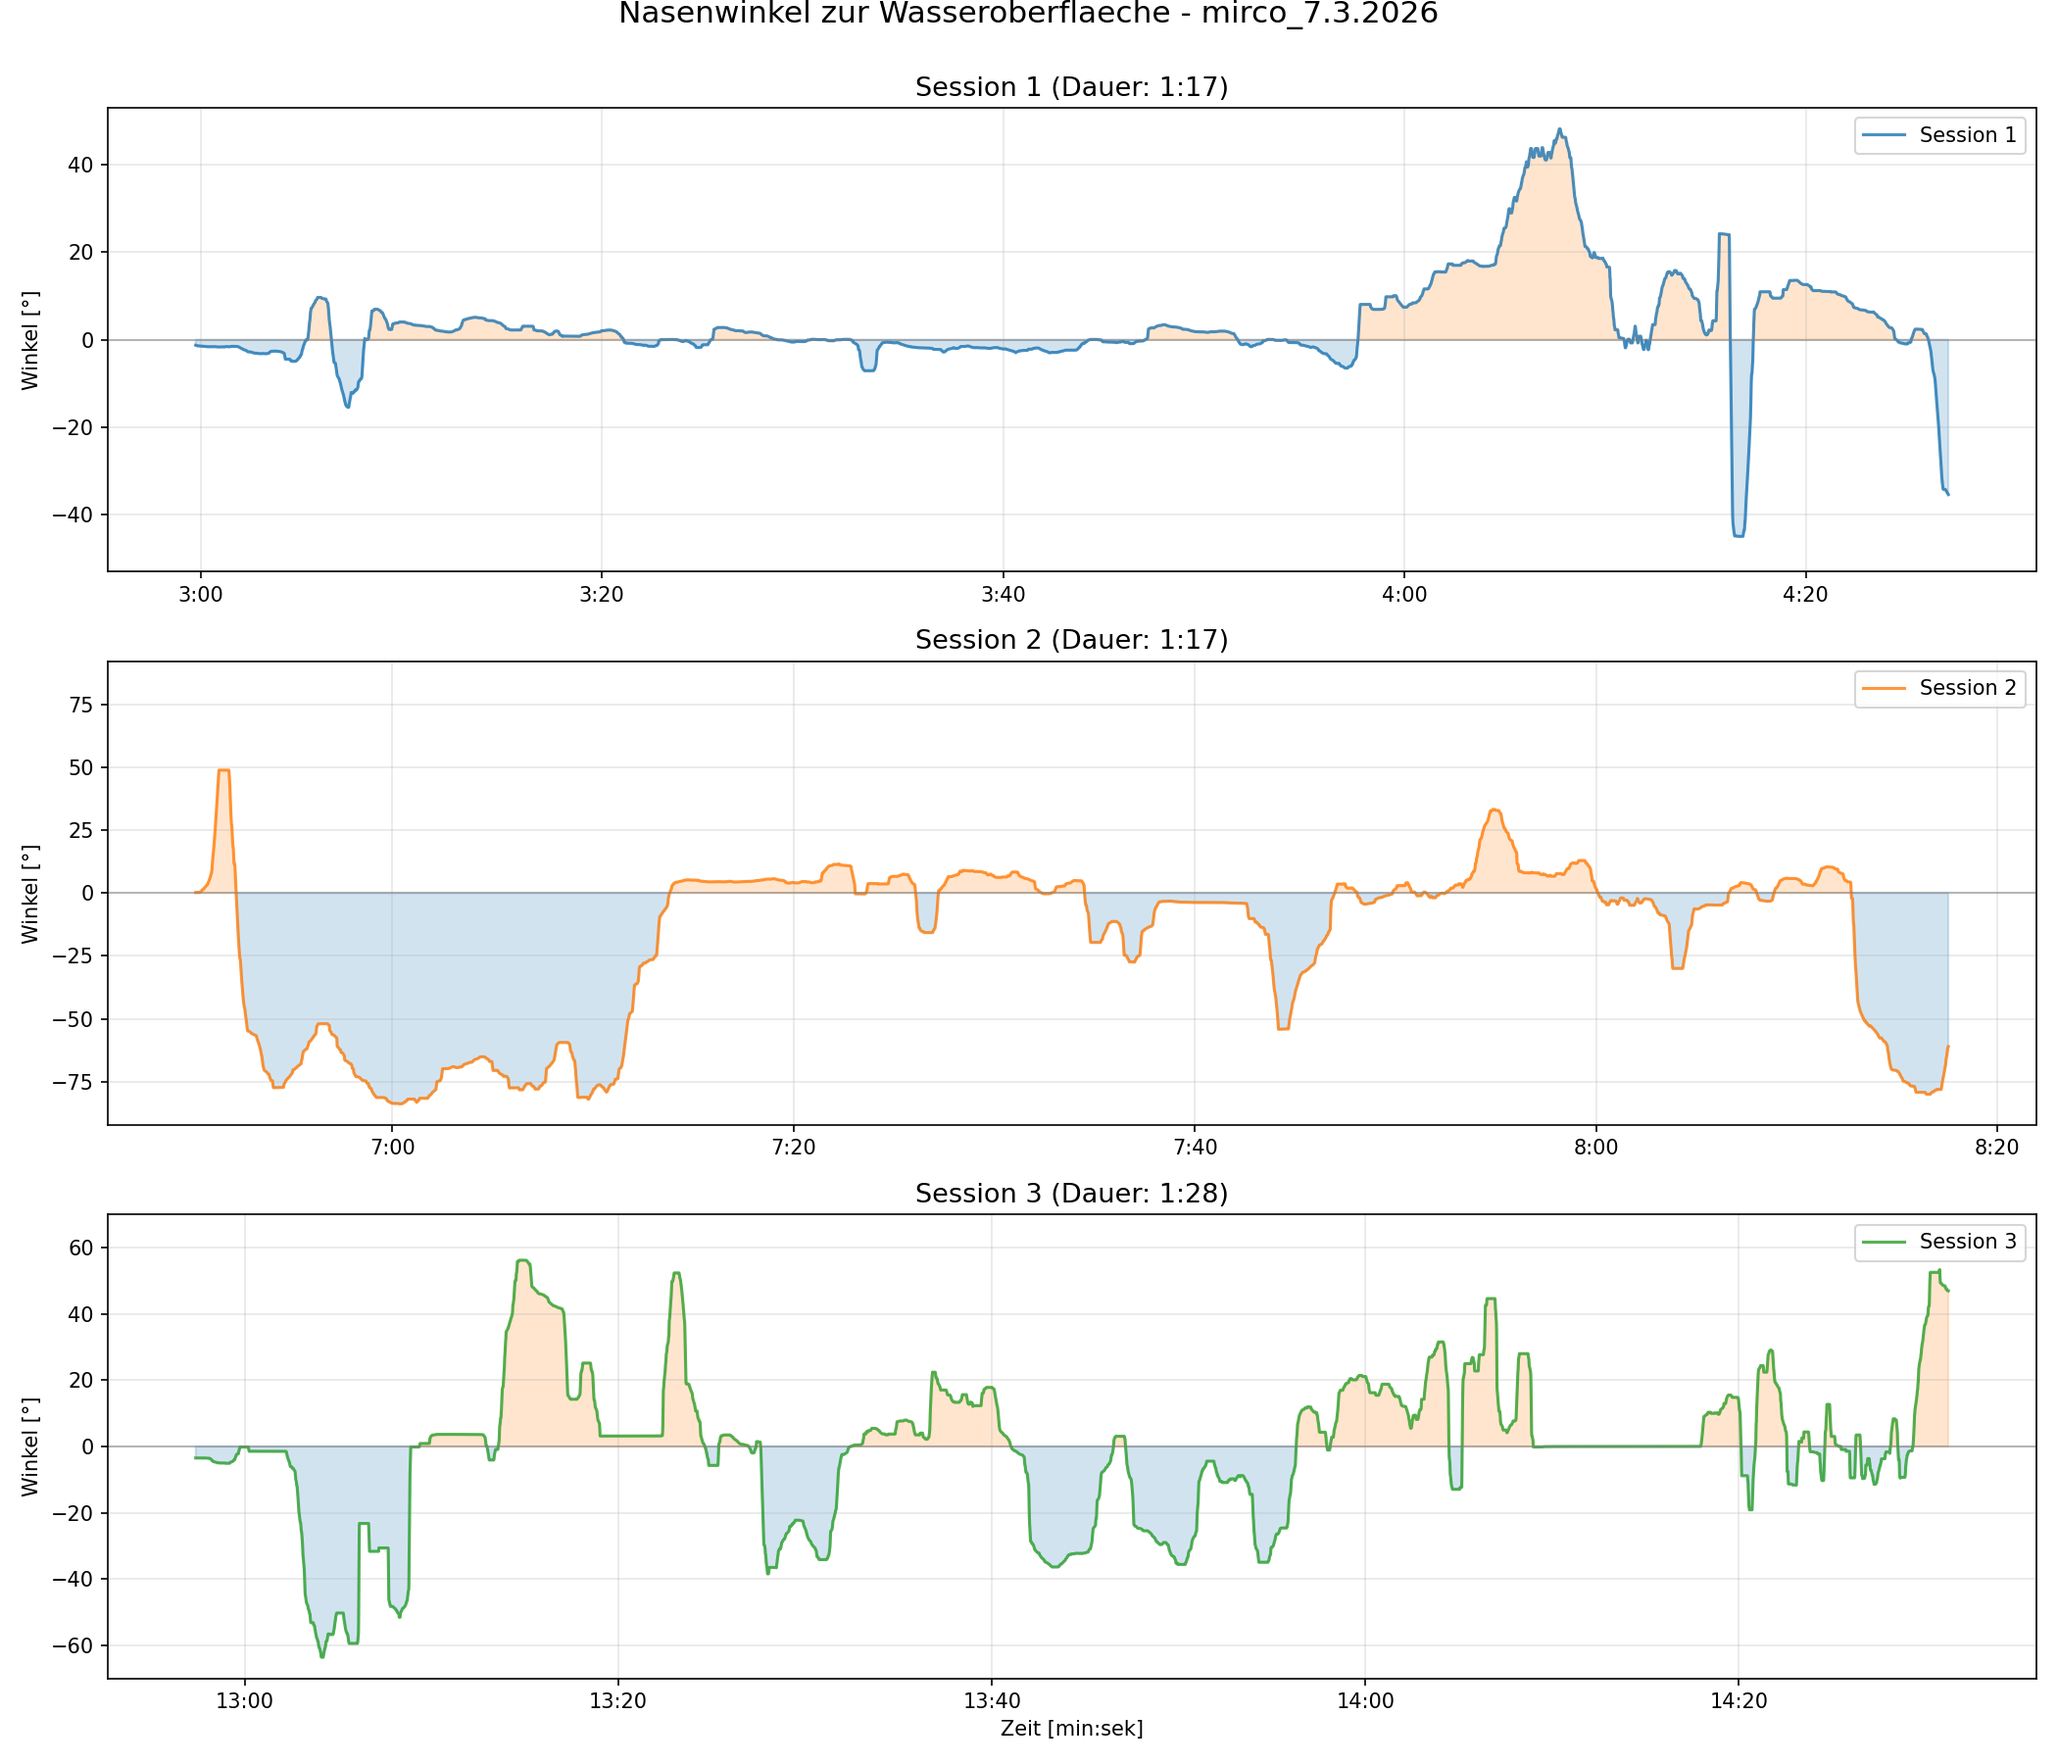
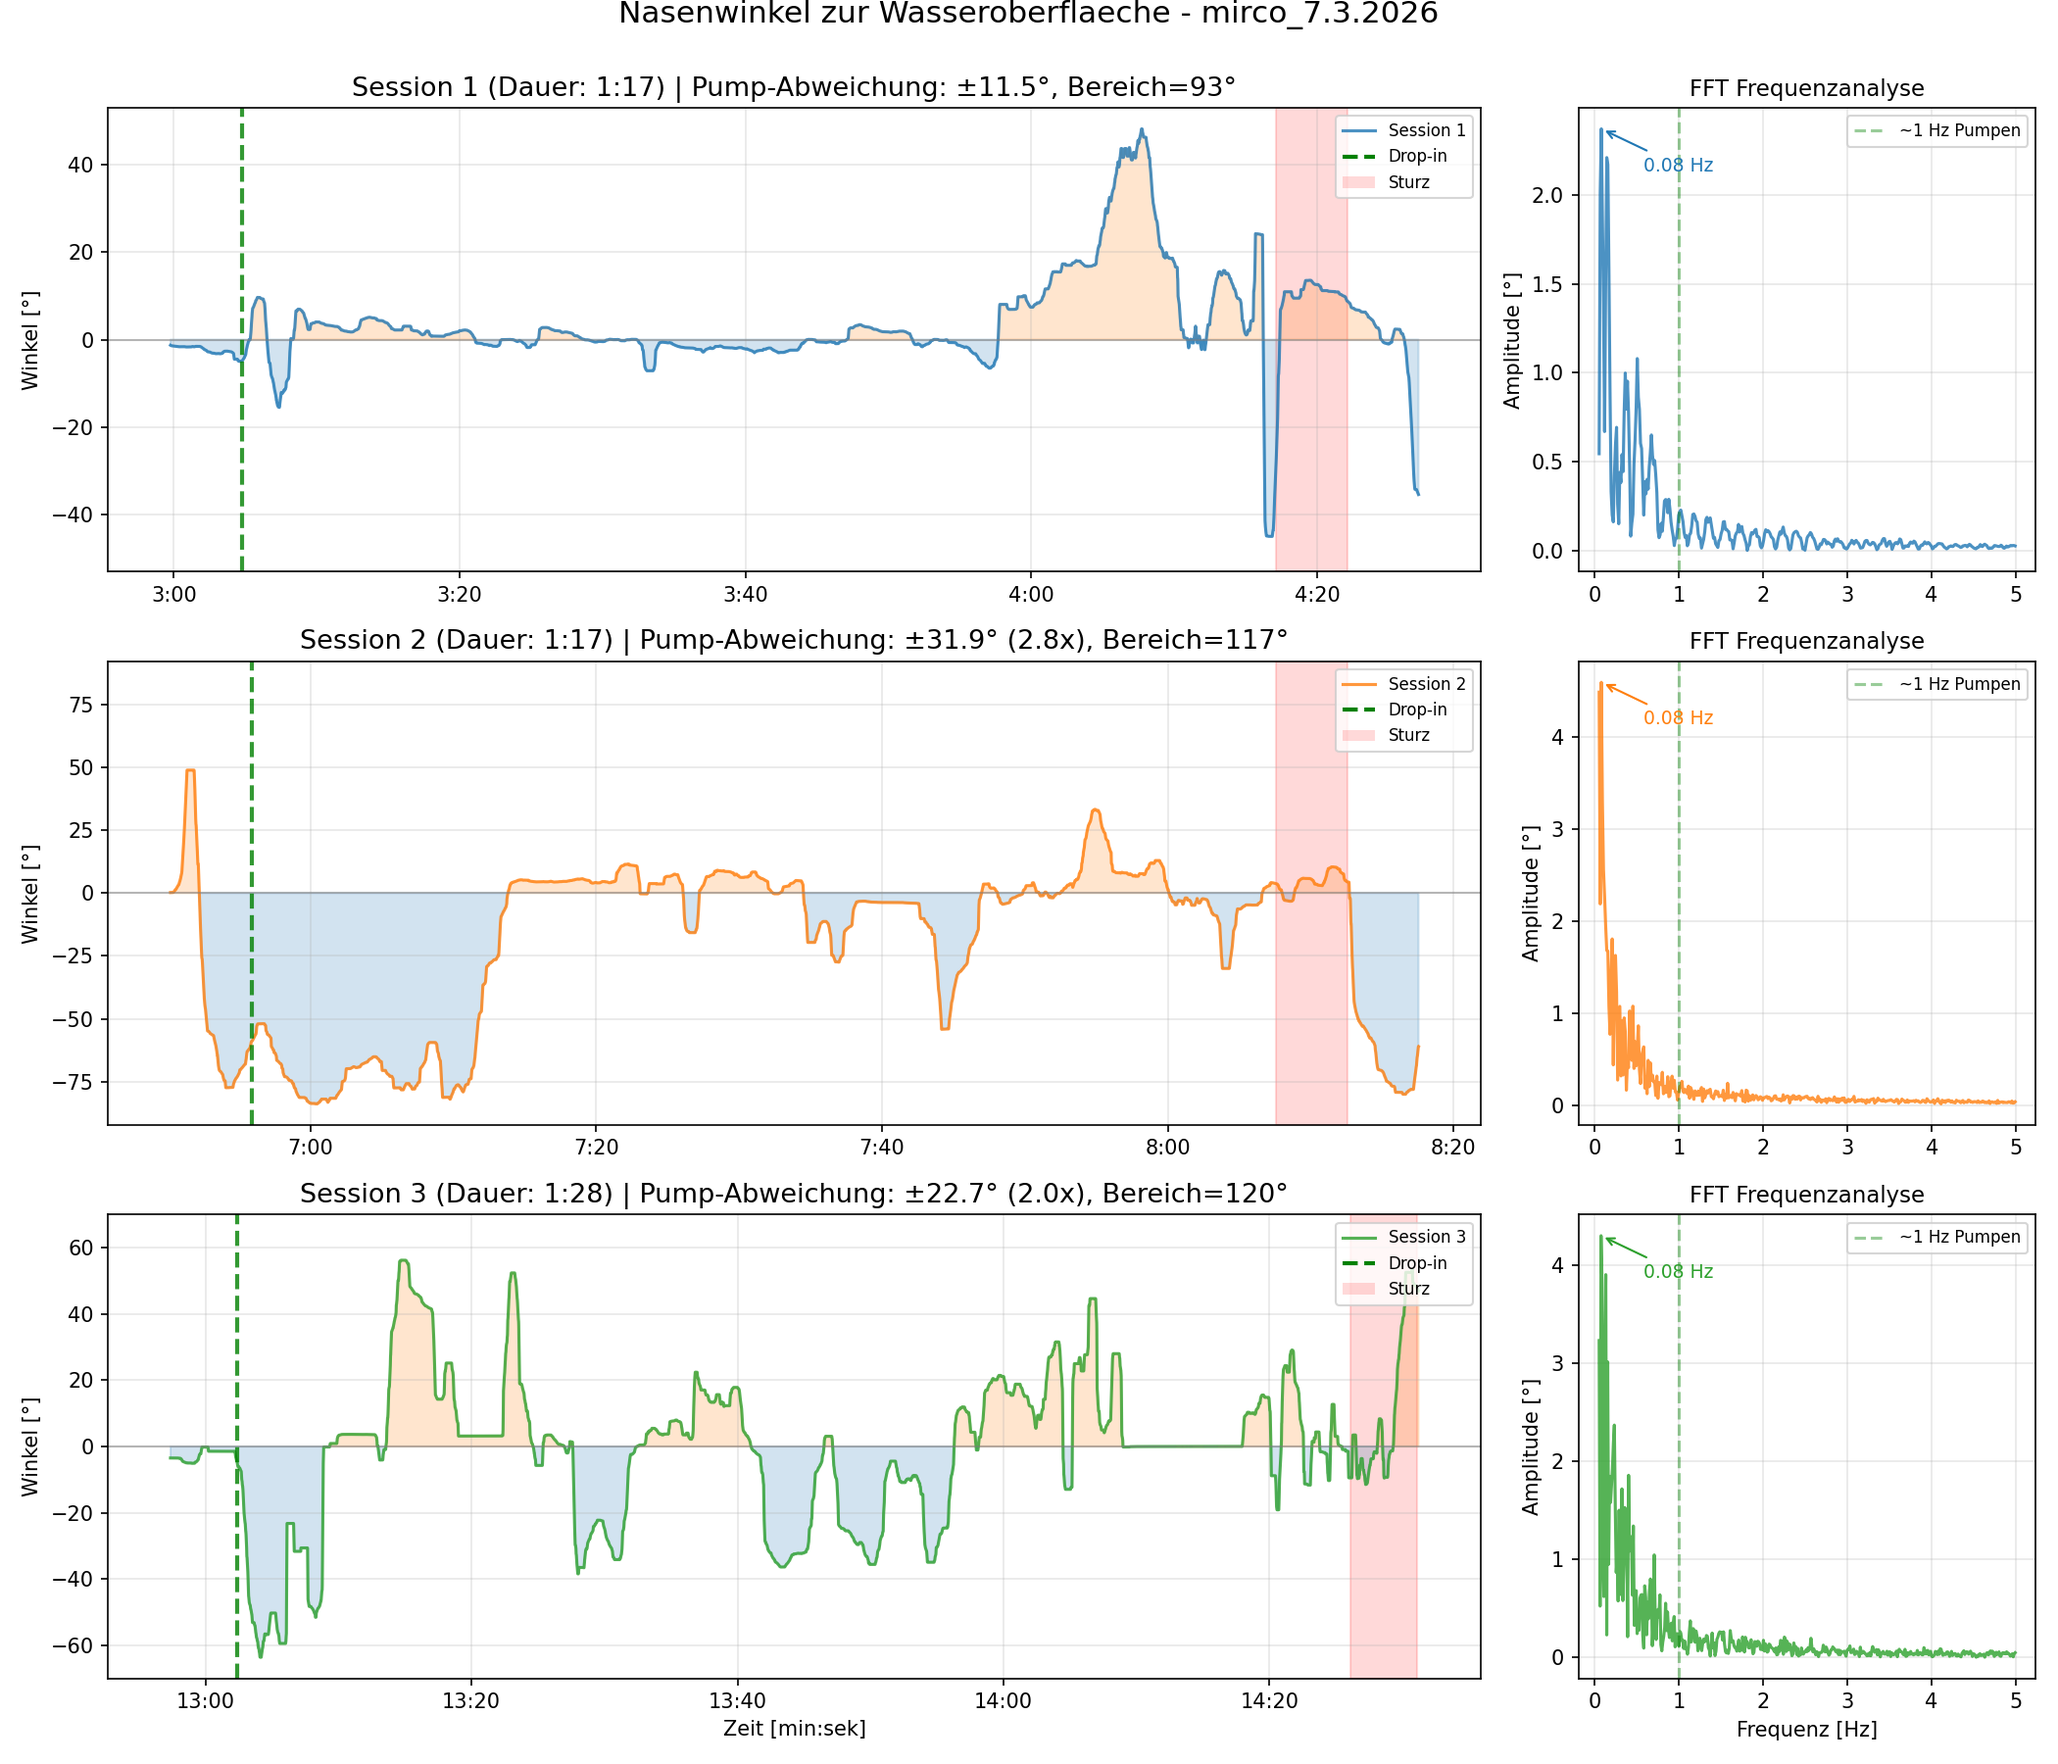
Add FFT frequency analysis and drop-in/crash markers to combined nose angle plot
Combined plot now shows FFT per session (right column) to distinguish pump
frequency (~1 Hz) from magnetometer drift (~0.1 Hz). Drop-in marked with
green dashed line, end-of-session crash with red shaded area.

diff --git a/Utilities/scripts/visualize_sensors.py b/Utilities/scripts/visualize_sensors.py
@@ -243,8 +243,12 @@ def plot_quaternions(csv_path, output_dir):
         baseline = baseline.interpolate(method='linear').bfill().ffill().values
         nose_angle = nose_smooth - baseline
 
-        # Store nose angle for combined plot
-        all_nose_angles.append((t_sec[sl], nose_angle[s_padded:e_padded], s, e, i))
+        # Store nose angle for combined plot (session range without last 5s crash)
+        pump_end = e - 5 * sample_rate_hz
+        pump_std = np.std(nose_angle[s:pump_end])
+        pump_range = np.max(nose_angle[s:pump_end]) - np.min(nose_angle[s:pump_end])
+        all_nose_angles.append((t_sec[sl], nose_angle[s_padded:e_padded],
+                                s, e, i, pump_std, pump_range, drop_in_idx))
 
         # Mark end-of-session crash: last 5 seconds of the session
         crash_start = e - 5 * sample_rate_hz
@@ -303,12 +307,13 @@ def plot_quaternions(csv_path, output_dir):
         print(f"Saved {out_z}")
 
 
-    # Combined nose angle comparison plot: one subplot per session
+    # Combined nose angle comparison plot: nose angle + FFT per session
     if len(all_nose_angles) > 0:
-        fig_c, axes_c = plt.subplots(len(all_nose_angles), 1,
-                                     figsize=(14, 4 * len(all_nose_angles)),
-                                     sharex=False)
-        if len(all_nose_angles) == 1:
+        n_sess = len(all_nose_angles)
+        fig_c, axes_c = plt.subplots(n_sess, 2,
+                                     figsize=(14, 4 * n_sess),
+                                     gridspec_kw={'width_ratios': [3, 1]})
+        if n_sess == 1:
             axes_c = [axes_c]
 
         def fmt_min_sec_c(x, pos):
@@ -318,28 +323,87 @@ def plot_quaternions(csv_path, output_dir):
         time_fmt_c = FuncFormatter(fmt_min_sec_c)
 
         colors = ['tab:blue', 'tab:orange', 'tab:green']
-        for idx, (sess_t, sess_nose, sess_s, sess_e, sess_i) in enumerate(all_nose_angles):
-            ax = axes_c[idx]
+        # Also collect raw nose elevation for FFT
+        qi_a = quat_data['Qi'].values
+        qj_a = quat_data['Qj'].values
+        qk_a = quat_data['Qk'].values
+        qs_a = quat_data['Qs'].values
+        nose_z_all = 2 * (qj_a * qk_a - qs_a * qi_a)
+        nose_elev_all = np.degrees(np.arcsin(np.clip(nose_z_all, -1, 1)))
+
+        for idx, (sess_t, sess_nose, sess_s, sess_e, sess_i, p_std, p_range, sess_drop_in) in enumerate(all_nose_angles):
+            ax_t = axes_c[idx][0]  # time domain (left)
+            ax_f = axes_c[idx][1]  # frequency domain (right)
             c = colors[idx % len(colors)]
-            ax.plot(sess_t, sess_nose, color=c, alpha=0.8, label=f'Session {sess_i}')
-            ax.axhline(0, color='gray', linestyle='-', linewidth=1, alpha=0.5)
-            ax.fill_between(sess_t, 0, sess_nose,
+            ax_t.plot(sess_t, sess_nose, color=c, alpha=0.8, label=f'Session {sess_i}')
+            ax_t.axhline(0, color='gray', linestyle='-', linewidth=1, alpha=0.5)
+            ax_t.fill_between(sess_t, 0, sess_nose,
                             where=sess_nose >= 0, alpha=0.2, color='tab:orange')
-            ax.fill_between(sess_t, 0, sess_nose,
+            ax_t.fill_between(sess_t, 0, sess_nose,
                             where=sess_nose < 0, alpha=0.2, color='tab:blue')
+            # Mark drop-in
+            if sess_drop_in is not None:
+                drop_t = t_sec[sess_drop_in]
+                ax_t.axvline(drop_t, color='green', linestyle='--', linewidth=2, alpha=0.8)
+            # Mark end crash (last 5 seconds)
+            crash_start_t = t_sec[sess_e - 5 * sample_rate_hz]
+            crash_end_t = t_sec[sess_e]
+            ax_t.axvspan(crash_start_t, crash_end_t, alpha=0.15, color='red', zorder=0)
             dur = (sess_e - sess_s) / sample_rate_hz
             dm, ds_val = divmod(int(dur), 60)
-            ax.set_title(f'Session {sess_i} (Dauer: {dm}:{ds_val:02d})', fontsize=13)
-            ax.set_ylabel('Winkel [°]')
-            ax.grid(True, alpha=0.3)
-            ax.xaxis.set_major_formatter(time_fmt_c)
-            ax.legend(loc='upper right')
+            factor = f' ({p_std/all_nose_angles[0][5]:.1f}x)' if idx > 0 else ''
+            ax_t.set_title(f'Session {sess_i} (Dauer: {dm}:{ds_val:02d}) | '
+                         f'Pump-Abweichung: ±{p_std:.1f}°{factor}, '
+                         f'Bereich={p_range:.0f}°',
+                         fontsize=13)
+            ax_t.set_ylabel('Winkel [°]')
+            ax_t.grid(True, alpha=0.3)
+            ax_t.xaxis.set_major_formatter(time_fmt_c)
+            # Legend with drop-in and crash entries
+            from matplotlib.patches import Patch
+            from matplotlib.lines import Line2D
+            h, l = ax_t.get_legend_handles_labels()
+            h.append(Line2D([0], [0], color='green', linestyle='--', linewidth=2))
+            l.append('Drop-in')
+            h.append(Patch(facecolor='red', alpha=0.15))
+            l.append('Sturz')
+            ax_t.legend(handles=h, labels=l, loc='upper right', fontsize=8)
             # Auto-scale
             y_max = max(abs(np.nanmin(sess_nose)), abs(np.nanmax(sess_nose))) * 1.1
             y_max = max(y_max, 10)
-            ax.set_ylim(-y_max, y_max)
+            ax_t.set_ylim(-y_max, y_max)
 
-        axes_c[-1].set_xlabel('Zeit [min:sek]')
+            # FFT analysis (right column)
+            from scipy.fft import rfft, rfftfreq
+            # Use median-filtered nose elevation for FFT
+            smooth_window = sample_rate_hz
+            nose_sess = nose_elev_all[sess_s:sess_e]
+            nose_fft_data = pd.Series(nose_sess).rolling(
+                smooth_window, center=True, min_periods=1).median().values
+            nose_fft_data = nose_fft_data - np.mean(nose_fft_data)  # remove DC
+            N = len(nose_fft_data)
+            yf = np.abs(rfft(nose_fft_data)) / N
+            xf = rfftfreq(N, 1.0 / sample_rate_hz)
+            # Only show 0.05 - 5 Hz range
+            freq_mask = (xf >= 0.05) & (xf <= 5.0)
+            ax_f.plot(xf[freq_mask], yf[freq_mask], color=c, alpha=0.8)
+            ax_f.set_title('FFT Frequenzanalyse', fontsize=11)
+            ax_f.set_ylabel('Amplitude [°]')
+            ax_f.grid(True, alpha=0.3)
+            ax_f.axvline(1.0, color='green', linestyle='--', alpha=0.4, label='~1 Hz Pumpen')
+            ax_f.legend(loc='upper right', fontsize=8)
+            # Mark dominant frequency
+            peak_idx = np.argmax(yf[freq_mask])
+            peak_freq = xf[freq_mask][peak_idx]
+            peak_amp = yf[freq_mask][peak_idx]
+            ax_f.annotate(f'{peak_freq:.2f} Hz',
+                         xy=(peak_freq, peak_amp),
+                         xytext=(peak_freq + 0.5, peak_amp * 0.9),
+                         fontsize=9, color=c,
+                         arrowprops=dict(arrowstyle='->', color=c))
+
+        axes_c[-1][0].set_xlabel('Zeit [min:sek]')
+        axes_c[-1][1].set_xlabel('Frequenz [Hz]')
         fig_c.suptitle(f'Nasenwinkel zur Wasseroberflaeche - {title}', fontsize=15, y=1.0)
         fig_c.tight_layout()
         out_c = os.path.join(output_dir, f'plot_nose_angle_{base}.png')
@@ -358,7 +422,10 @@ def main():
     args = parser.parse_args()
 
     os.makedirs(args.output_dir, exist_ok=True)
-    plot_sensors(args.sensor_csv, args.output_dir)
+    try:
+        plot_sensors(args.sensor_csv, args.output_dir)
+    except KeyError:
+        print(f"Skipping sensor plot (no sensor columns in {args.sensor_csv})")
     if args.quaternion_csv:
         plot_quaternions(args.quaternion_csv, args.output_dir)
 

diff --git a/README.md b/README.md
@@ -84,11 +84,12 @@ Python scripts for plotting sensor and quaternion data are in `Utilities/scripts
 Generated plots are saved to the `png/` directory with filenames derived from the input CSV (e.g. `plot_quaternions_mirco_7.3.2026.png`).
 Quaternion plots display time in min:sek format based on a 120 Hz sample rate.
 Pumpfoil sessions are auto-detected (rhythmic pitch oscillation > 0.3 Hz filters out walking).
-Each session plot includes quaternion components, Euler angles, and board nose angle relative to the water surface. The nose angle is computed from the rotated sensor Y-axis (sensor mounted in Breitachse = X across board), with a 1-second median filter to remove magnetometer correction spikes and a 60-second baseline removal. Drop-in and end-of-session crash are marked.
+Each session plot includes quaternion components, Euler angles, and board nose angle relative to the water surface. The nose angle is computed from the rotated sensor Y-axis (sensor mounted in Breitachse = X across board), with a 1-second median filter to remove magnetometer correction spikes and a 60-second baseline removal. Drop-in (green dashed line) and end-of-session crash (red shaded area) are marked.
+The combined nose angle comparison plot (`plot_nose_angle_*.png`) includes FFT frequency analysis per session to distinguish pump frequency (~1 Hz) from magnetometer drift (~0.1 Hz).
 
 **Sensor mounting note:** Mount the sensor as far as possible from the metal mast/foil to minimize magnetometer interference. Mounting near metal causes sensor fusion correction jumps that degrade data quality in longer sessions.
 
-Requires: `pandas`, `numpy`, `matplotlib`, `scipy` (pumpfoil only).
+Requires: `pandas`, `numpy`, `matplotlib`, `scipy`.
 
 ## Known Limitations
 

diff --git a/CLAUDE.md b/CLAUDE.md
@@ -111,7 +111,8 @@ Quaternion plots use a min:sek time axis based on 120 Hz sample rate.
 Pumpfoil sessions are auto-detected by pitch oscillation frequency (>0.3 Hz = pumping, <0.3 Hz = walking).
 Each session gets a zoomed plot with quaternions, Euler angles, and nose angle to water.
 Nose angle uses rotated sensor Y-axis (Breitachse mounting), 1s median filter (removes magnetometer spikes),
-60s rolling median baseline (crash-masked). Drop-in and end crash are marked.
+60s rolling median baseline (crash-masked). Drop-in (green dashed line) and end crash (red shaded area) are marked.
+Combined nose angle plot includes FFT frequency analysis per session (pump frequency ~1 Hz vs magnetometer drift ~0.1 Hz).
 Mounting sensor near metal mast causes magnetometer interference → sensor fusion correction jumps in later sessions.
 Raw CSV data lives in `csv/`.
 
